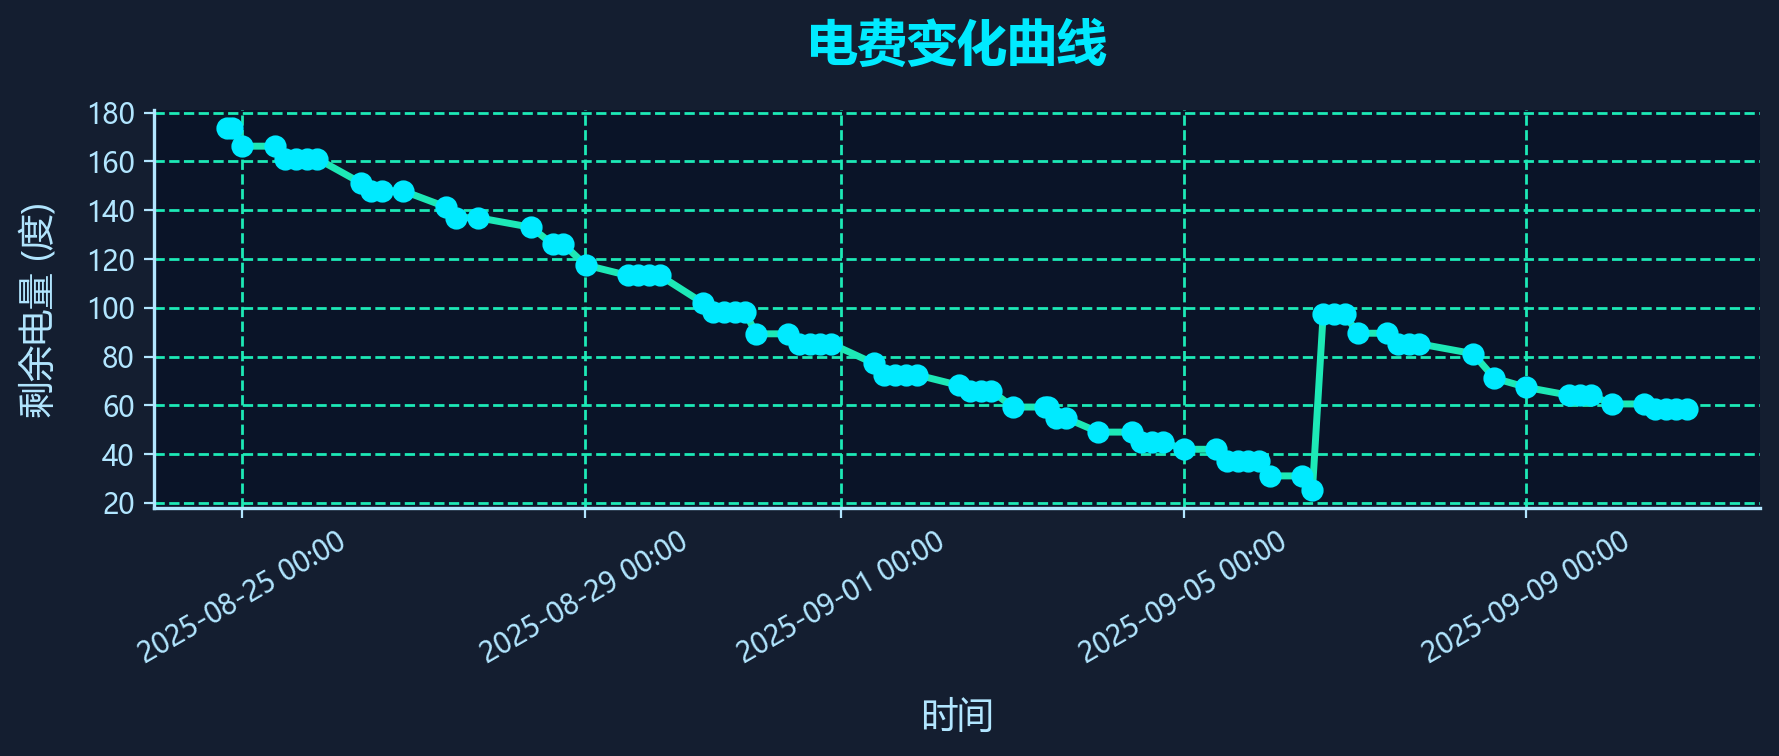
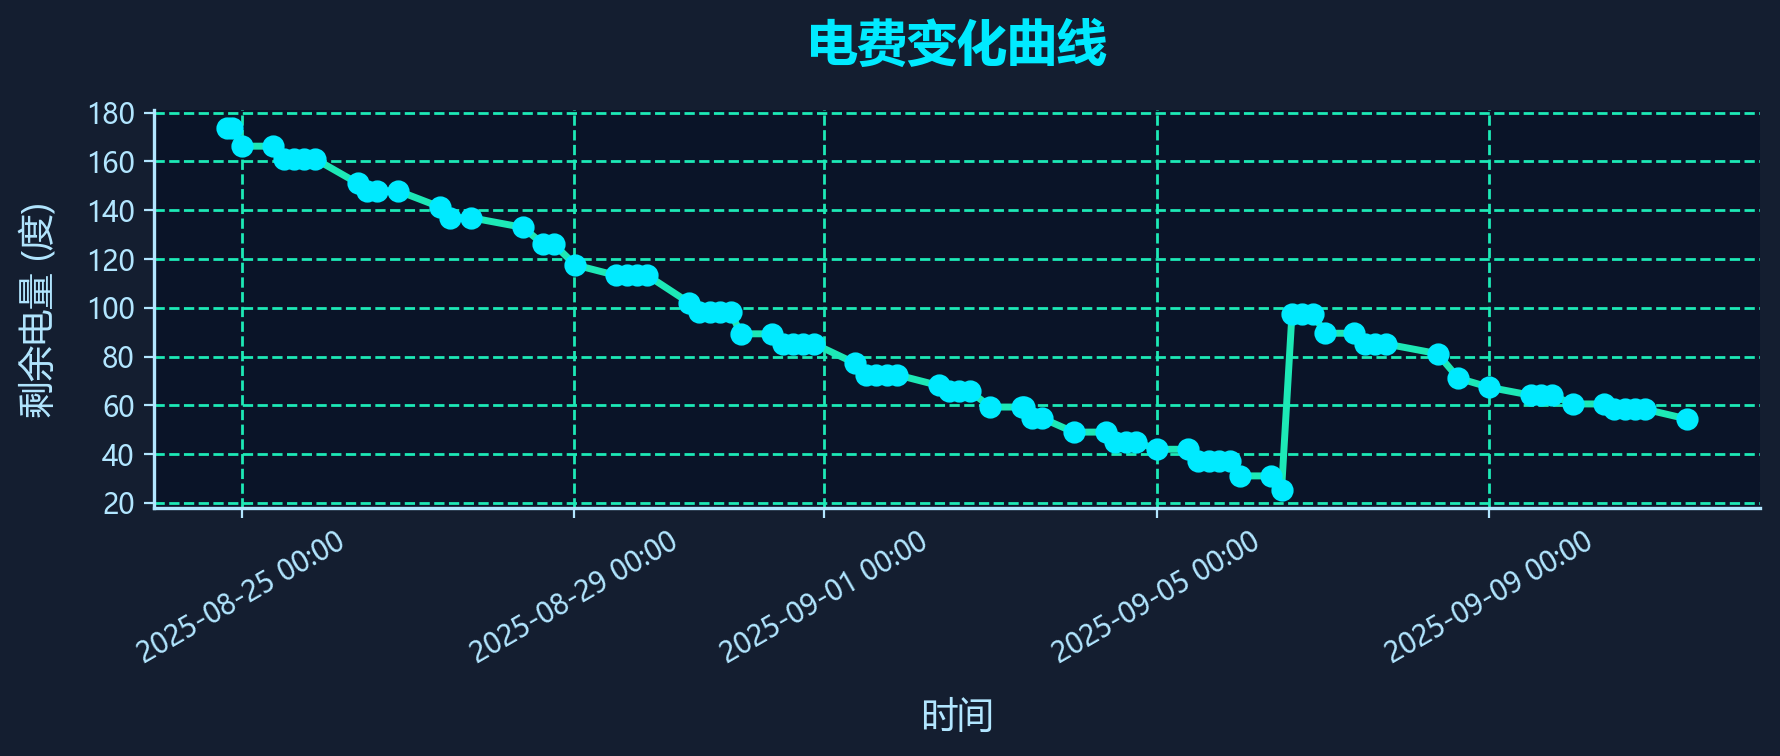
2025-09-11 09:03 自动提交电费变更

diff --git a/data/debug_page_source.html b/data/debug_page_source.html
@@ -2,7 +2,7 @@
     <meta http-equiv="Content-Type" content="text/html; charset=UTF-8">
     <meta http-equiv="X-UA-Compatible" content="IE=edge">
     <meta name="viewport" content="width=device-width, initial-scale=1, user-scalable=no">
-    <meta name="_csrf" content="4b050c94-6bb6-49f6-8408-bfead5459bb0">
+    <meta name="_csrf" content="bb42aacd-dc6e-40a2-8f3d-74905b36231e">
     <meta name="_csrf_header" content="X-CSRF-TOKEN">
     <link type="image/png" href="/epay/images/nju/icon.png" rel="shortcut icon">
     <link type="text/css" rel="stylesheet" href="/epay/css/wxpage/weui.min.css">
@@ -32,7 +32,7 @@
 
 
 <body>
-<div id="app"><div class="centent"><div class="top"><div class="clearfix"><span class="fl">持卡人姓名：<i>吴相民</i></span></div> <div class="clearfix"><span class="fl">校园卡余额：<i class="green">211.08元</i></span></div></div> <div class="line"></div> <div class="cont"><div class="clearfix"><span class="fl">缴费地址：<i>仙林校区 18幢 18栋第17层1702</i></span></div> <div class="clearfix"><span class="fl">剩余电量：<i>58.36度</i><em></em></span></div> <!----> <!----></div> <div class="num clearfix"><div style="display: flex; flex-wrap: wrap;"><span class="active">10元</span><span class="">20元</span><span class="">50元</span><span class="">100元</span><span class="">200元</span><span class="">自定义</span></div></div> <div class="inputbox" style="display: none;"><input type="text" placeholder="请输入充值金额" pattern="[0-9]*" maxlength="4" id="amount"></div> <div class="footer">充值</div> <div class="desc">充值时间：每天00:05-23:55</div> <div class="wapat"><div class="wapat-inner"><div class="wapat-title">错误！</div> <div class="wapat-btn-box"><div class="wapat-btn wapat-btn-ok">确定</div></div></div></div></div></div>
+<div id="app"><div class="centent"><div class="top"><div class="clearfix"><span class="fl">持卡人姓名：<i>吴相民</i></span></div> <div class="clearfix"><span class="fl">校园卡余额：<i class="green">85.08元</i></span></div></div> <div class="line"></div> <div class="cont"><div class="clearfix"><span class="fl">缴费地址：<i>仙林校区 18幢 18栋第17层1702</i></span></div> <div class="clearfix"><span class="fl">剩余电量：<i>54.38度</i><em></em></span></div> <!----> <!----></div> <div class="num clearfix"><div style="display: flex; flex-wrap: wrap;"><span class="active">10元</span><span class="">20元</span><span class="">50元</span><span class="">100元</span><span class="">200元</span><span class="">自定义</span></div></div> <div class="inputbox" style="display: none;"><input type="text" placeholder="请输入充值金额" pattern="[0-9]*" maxlength="4" id="amount"></div> <div class="footer">充值</div> <div class="desc">充值时间：每天00:05-23:55</div> <div class="wapat"><div class="wapat-inner"><div class="wapat-title">错误！</div> <div class="wapat-btn-box"><div class="wapat-btn wapat-btn-ok">确定</div></div></div></div></div></div>
 
 
 
